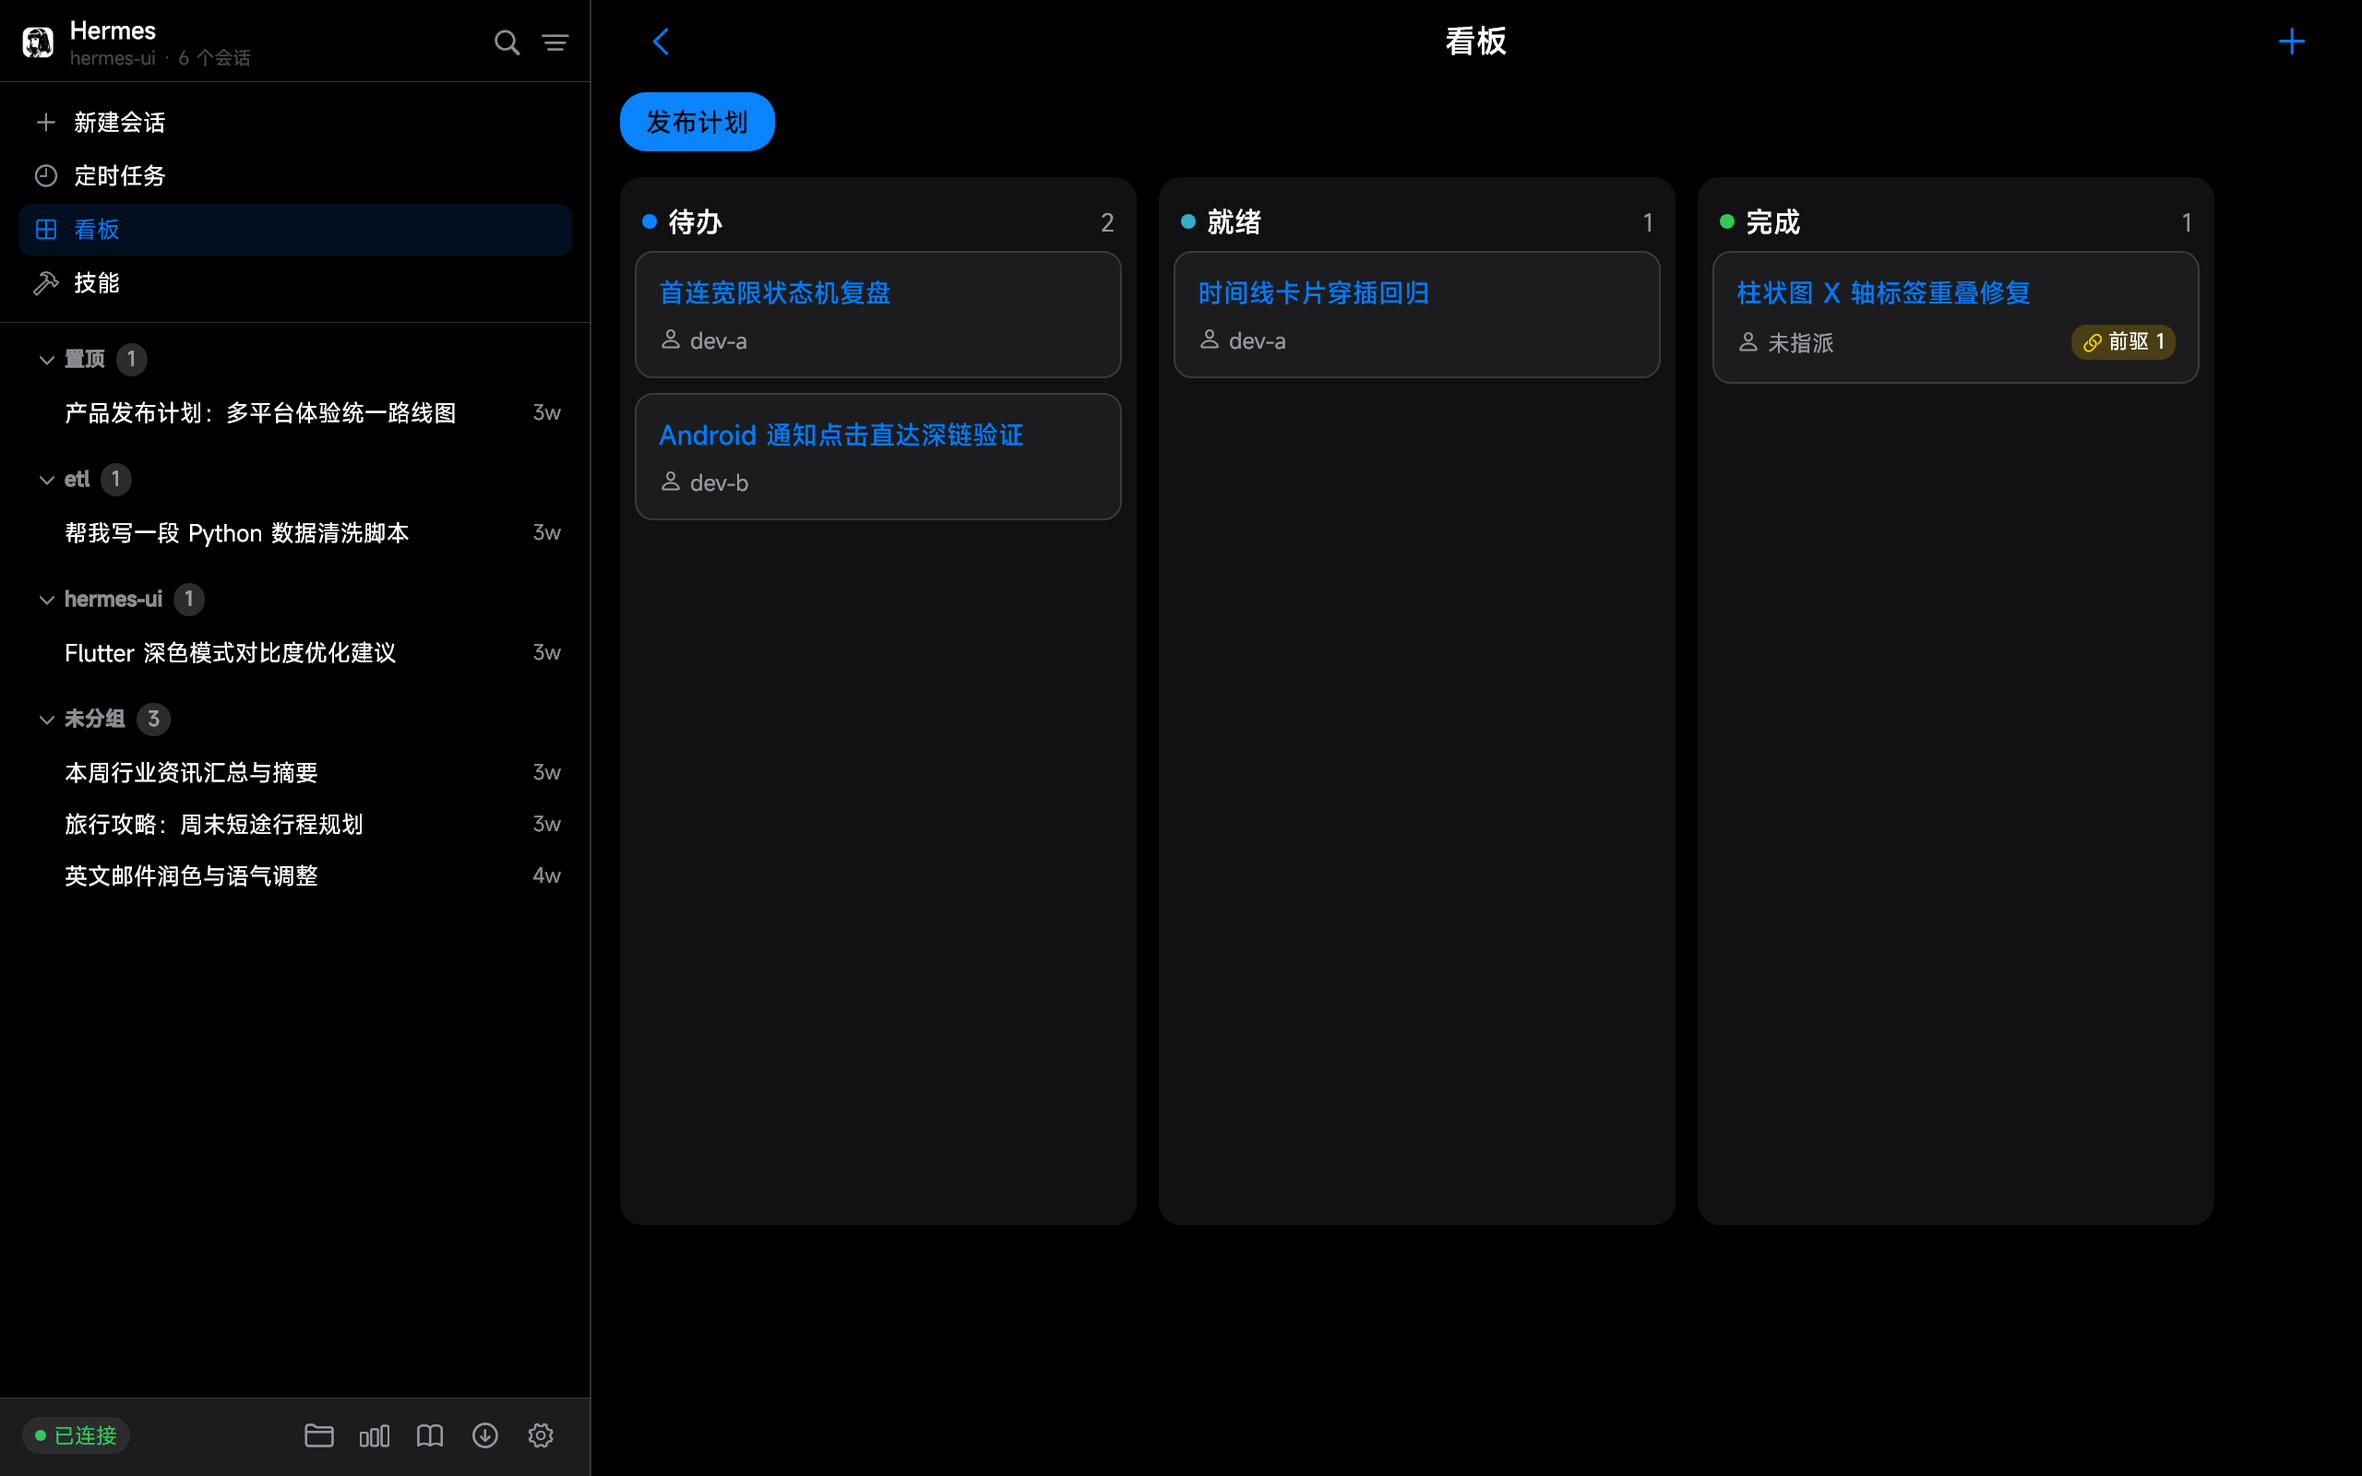
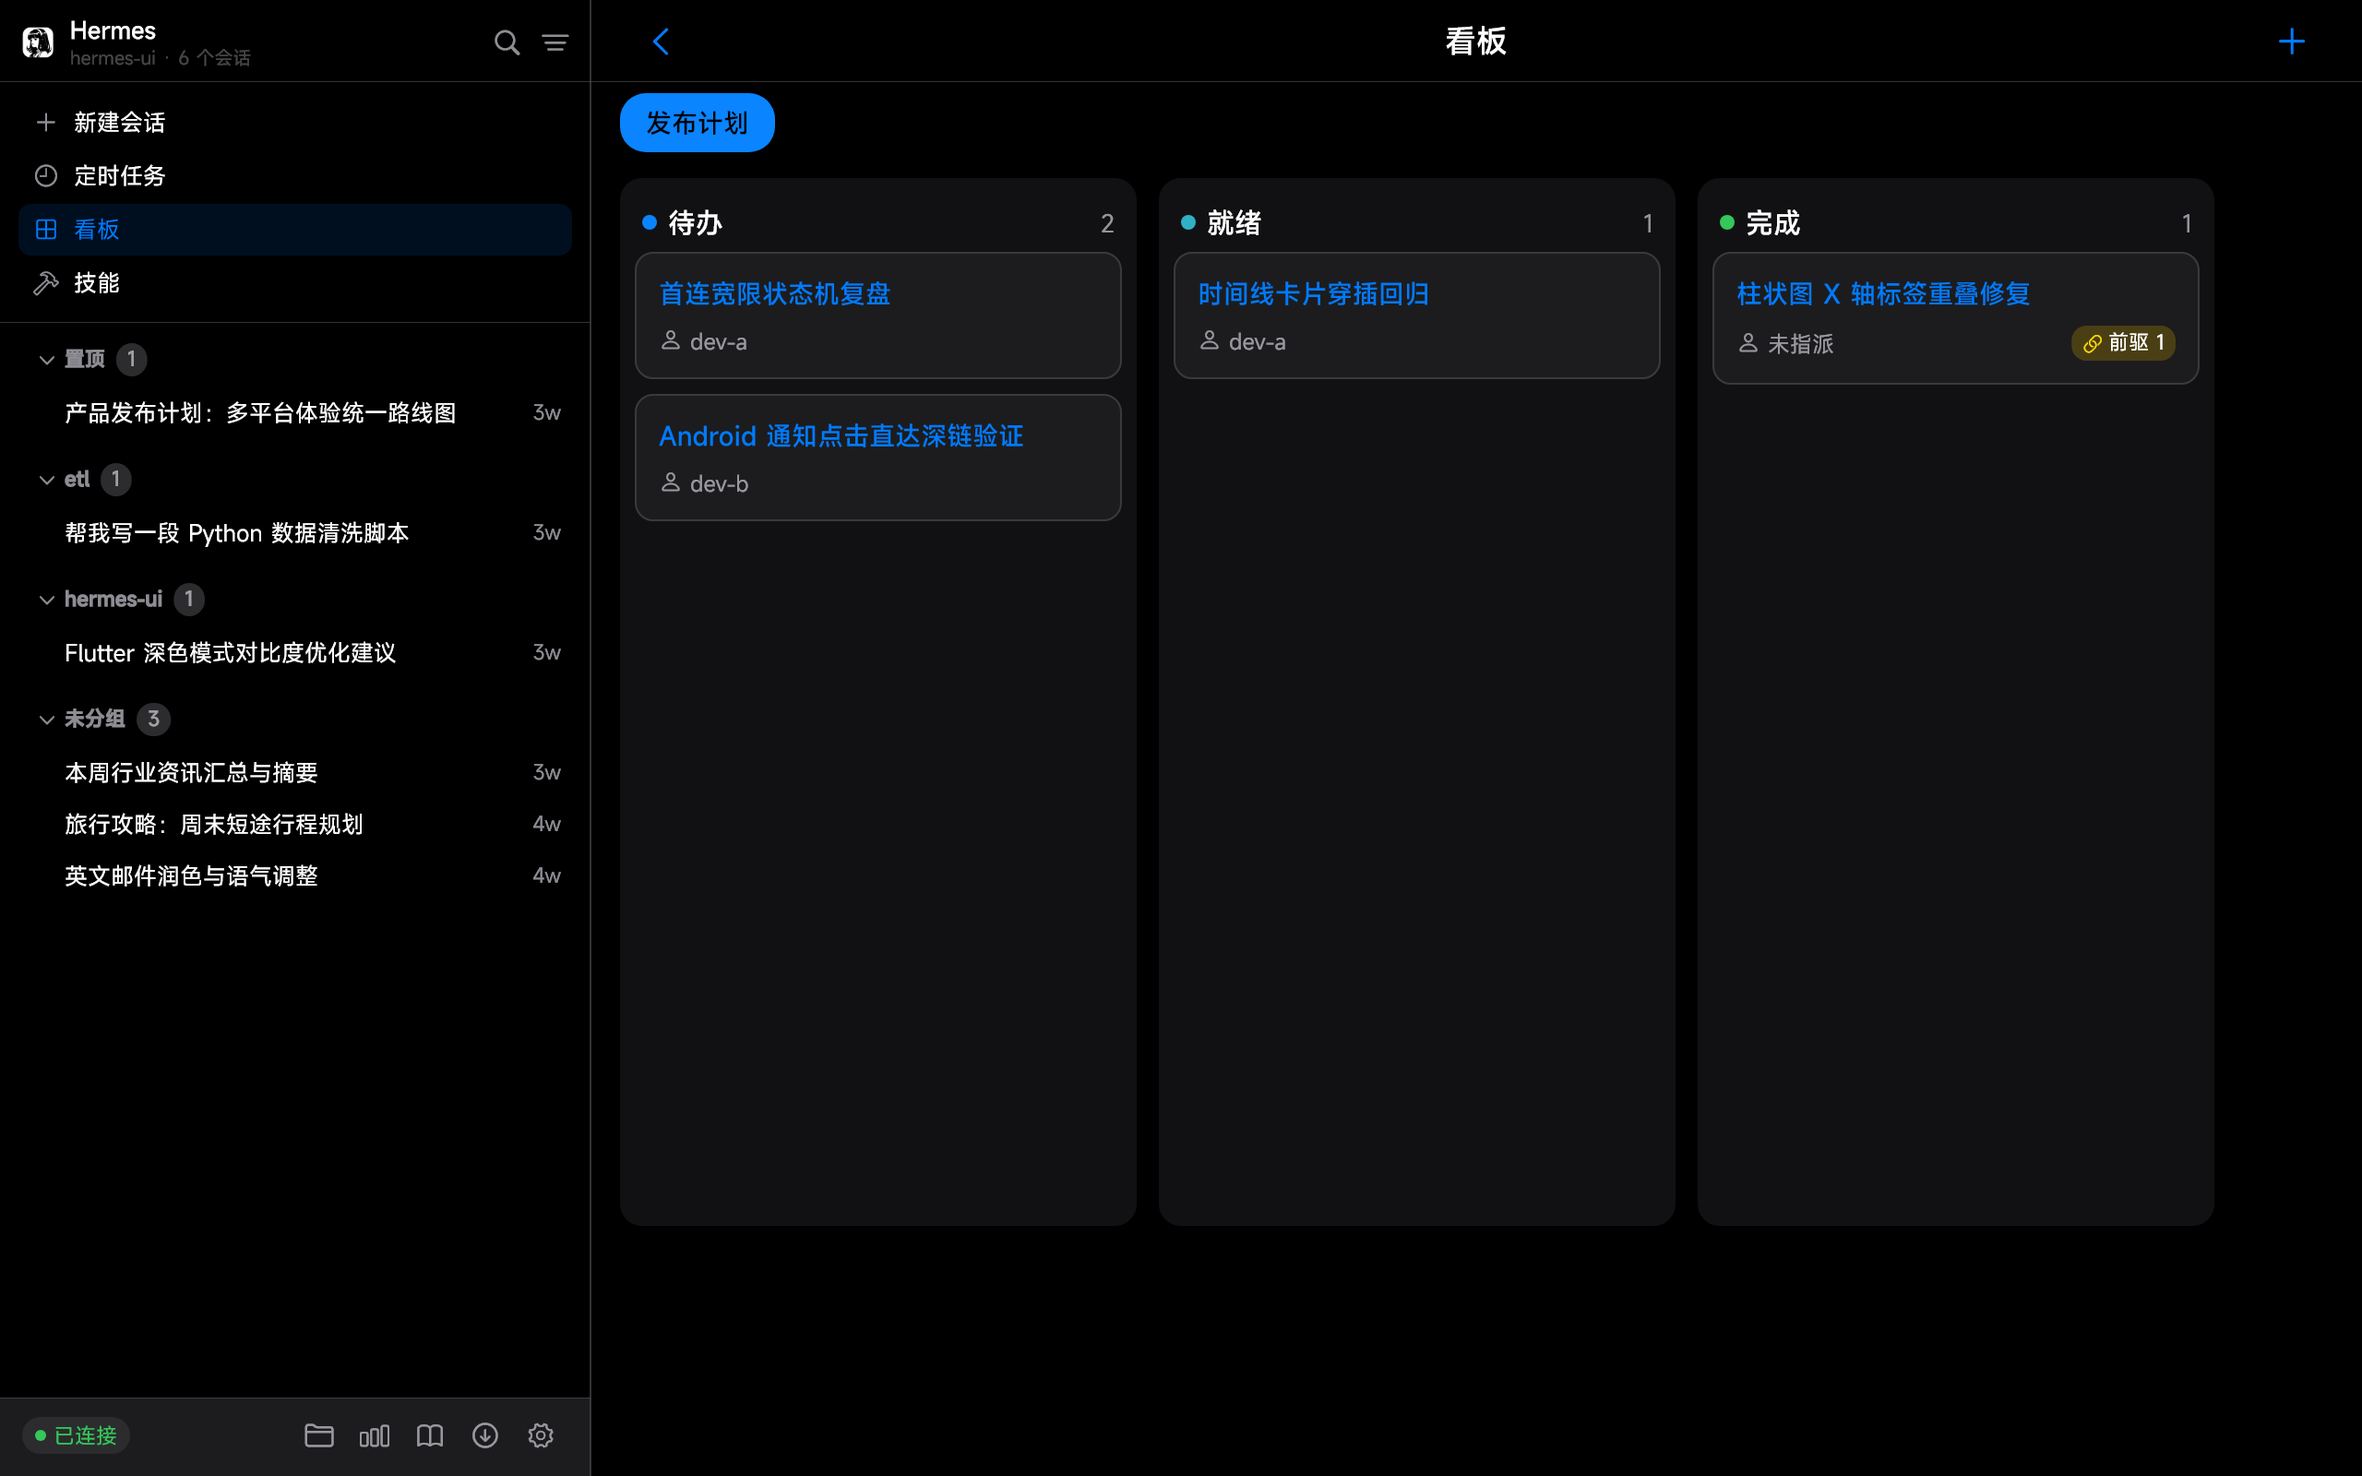
docs(readme): 刷新中英双语 README 与其截图至当前 UI
截图：中/英 × 亮/暗四套共 24 张重拍，20 张有变化 —— 线族/发丝线改动使
统计、看板页内容整体下移 1px（主线金照已重基准），聊天与会话页逐像素不变。

工装：补 activeChatSessionIdProvider 覆盖 —— hero 图此前漏了宽屏侧栏
「当前会话高亮」（真机由桌面生命周期观察者随 /chat 路由写入，本工装自建
GoRouter 不挂观察者）。顺带修正 sidebar_polish_161_test 里指错的守卫图名
（wide-sessions.png 无当前会话，守不到高亮）。

正文：亮点补附件（等高宫格/图片点击放行）、下载（队列/断点/通知）、宽屏
双栏、HiDPI 界面缩放、页面底色可调；统计口径由「近 14 天图表」改为四档
周期；`cd hermes-ui` → `hermes-keep`；安装包写实名；测试规模 4,800+ →
5,600+（实测 5641 通过 / 230 跳过）；截图说明去掉「与发布逐像素一致」的
过度声明（该套图不参与 CI 金照比对）。

diff --git a/test/screenshots/readme_shots_test.dart b/test/screenshots/readme_shots_test.dart
@@ -20,6 +20,7 @@ import 'package:hermes_ui/core/models/workspace.dart';
 import 'package:hermes_ui/core/providers/catalog_providers.dart';
 import 'package:hermes_ui/features/chat/chat_page.dart';
 import 'package:hermes_ui/features/chat/chat_providers.dart';
+import 'package:hermes_ui/features/desktop/window_title_service.dart';
 import 'package:hermes_ui/features/insights/insights_api.dart';
 import 'package:hermes_ui/features/insights/insights_page.dart';
 import 'package:hermes_ui/features/kanban/kanban_page.dart';
@@ -452,6 +453,12 @@ void main() {
       physicalSize: const Size(2560, 1600),
       overrides: [
         chatApiProvider.overrideWithValue(api),
+        // #161：宽屏侧栏「当前会话高亮」由 activeChatSessionIdProvider 驱动。
+        // 真机里这个值是桌面生命周期观察者随 /chat 路由写入的；本工装自建
+        // GoRouter、不挂观察者，故须显式喂上，否则侧栏整列与「无当前会话」
+        // 逐像素相同——hero 图会漏掉这条语义（同族工装 attach_bubble /
+        // ctx_popover 也是这么做的）。
+        activeChatSessionIdProvider.overrideWith((ref) => 's-demo-1'),
         sessionListApiFactoryProvider.overrideWithValue(
           (_) => demoSessionApi(),
         ),

diff --git a/test/app/sidebar_polish_161_test.dart b/test/app/sidebar_polish_161_test.dart
@@ -13,7 +13,9 @@ import 'package:shared_preferences/shared_preferences.dart';
 ///
 /// ①当前会话高亮 的渲染由 `_SessionRow.isCurrent` 承载（私有 widget），
 /// 本文件以「provider → 徽标/文案」的可观测契约为主；高亮的像素回归由
-/// `docs/screenshots/wide-sessions.png` 与 session_list 域用例共同守卫。
+/// `docs/screenshots/wide-chat.png`（宽屏侧栏 + 当前会话）与 session_list
+/// 域用例共同守卫 —— 注意会话列表页（`wide-sessions.png`）没有当前会话，
+/// 那张图守不到高亮。
 class _EmptyTasksController extends TasksController {
   @override
   Future<TasksState> build() async {

diff --git a/README.md b/README.md
@@ -45,7 +45,7 @@ Dark and light themes ship side by side, and each language gets its own set so t
 
 </div>
 
-> All screenshots are captured from the app's own golden-screenshot harness with demo data (`test/screenshots/`), so they match every release byte-for-byte. Both the English and [简体中文](README.zh-CN.md) sets are generated from the same harness, one run per language.
+> All screenshots come from the app's own screenshot harness with demo data (`test/screenshots/readme_shots_test.dart`), rendered inside the real app shell — not mockups. The English and [简体中文](README.zh-CN.md) sets are produced by the same harness, one run per language.
 
 ## Why this one
 
@@ -61,21 +61,25 @@ behaves the same everywhere it runs.
 - **Bundled WebUI Sidecar (Windows)** — the installer ships a self-contained WebUI backend with an embedded Python 3.11 runtime: no pre-installed Python, Git, or compilers required. One click to start & connect, Clash-Verge style.
 - **Smart interpreter reuse** — on startup the app detects an existing Hermes Agent installation and reuses its virtualenv (full agent dependencies, chat works out of the box). Without one, the bundled embedded Python still serves read-only session history.
 - **Streaming chat** — SSE streaming with Markdown + code blocks, reasoning and tool-call cards, steer and stop mid-turn, model picker, per-session drafts.
-- **Sessions** — debounced search, pin / archive / branch / delete, sectioned list (pinned / today / earlier), offline cache.
+- **Attachments** — multi-image messages lay out as one justified row each (equal height, no cropping, no gaps); other files render as compact file rows; image loading can be gated to a tap via **Settings → Auto-load Images**.
+- **Downloads** — a download queue with live progress (mirrored to a notification), resume from a partial file, and cancel.
+- **Sessions** — debounced search, pin / archive / branch / delete, sectioned list (pinned / today / earlier), offline cache, and the session you are reading highlighted in the sidebar.
 - **Tasks (cron)** — create, edit, enable/disable, trigger manually, inspect output, run-status badges.
 - **Skills & Memory** — browse and filter skills; memory panel with editing and write-back.
 - **Workspace & Git** — browse/upload/download workspace files; branch switching, status, diffs, commit, fetch / pull / push.
 - **Kanban** — boards and cards with cross-column drag & drop.
-- **Insights** — session / message / token / cost metrics, per-model breakdown, 14-day token chart.
+- **Insights** — today / 7 days / 30 days / all-time selector; session, message, token and cost metrics with a per-model breakdown and token chart.
 - **Notifications** — Android background turn-completion notifications with deep-link back to the conversation.
-- **Desktop polish** — tray icon, global hotkeys, window-state memory, launch-on-login (Windows).
+- **Wide screens** — two-pane layouts on desktop (skills, tasks, workspace, Git, diagnostics, downloads, settings) instead of one stretched column.
+- **Desktop polish** — tray icon, global hotkeys, window-state memory, launch-on-login, and 100–200% UI scaling for HiDPI displays (Windows).
+- **Appearance** — light / dark / follow system, plus an adjustable page background (six presets or your own hue and lightness).
 - **Bilingual UI** — English / 简体中文 / follow system.
 
 ## Installation
 
 ### Windows
 
-1. Grab the latest installer (`*.exe`) from the [Releases](https://github.com/silent-reader-cn/hermes-keep/releases) page and run it.
+1. Grab the latest installer `HermesUI-<version>-x64-setup.exe` from the [Releases](https://github.com/silent-reader-cn/hermes-keep/releases) page and run it.
 2. Launch **Hermes UI**. On the onboarding screen pick **Built-in service** → **Start & Connect**. That's it — the WebUI backend starts automatically.
 
 Chat requires a [Hermes Agent](https://hermes-agent.nousresearch.com/docs) installation. If none is detected, the onboarding screen shows a card linking to the install guide; without it the app still works in read-only mode (session history), and attempting to chat will tell you what's missing.
@@ -88,7 +92,7 @@ Download `app-release.apk` from the [Releases](https://github.com/silent-reader-
 
 ```bash
 git clone https://github.com/silent-reader-cn/hermes-keep.git
-cd hermes-ui
+cd hermes-keep
 flutter pub get
 
 # Windows desktop
@@ -131,7 +135,7 @@ The API contract is aligned with **[nesquena/hermes-webui](https://github.com/ne
 
 ## Project status
 
-Actively developed; 4,800+ automated tests green, `flutter analyze` clean. Releases ship a signed Windows installer (CI-built, bundling the WebUI sidecar) and an Android arm64 APK. See the [changelog](CHANGELOG.md) for details.
+Actively developed; 5,600+ automated tests green, `flutter analyze` clean. Releases ship a signed Windows installer (CI-built, bundling the WebUI sidecar) and an Android arm64 APK. See the [changelog](CHANGELOG.md) for details.
 
 ## License
 

diff --git a/README.zh-CN.md b/README.zh-CN.md
@@ -45,7 +45,7 @@
 
 </div>
 
-> 全部截图由 App 自身的 golden 截图工装生成（`test/screenshots/`，演示数据），与每次发布逐像素一致；英文版 README 用的是同一工装出的英文套件（界面语言与演示数据同为英文）。
+> 全部截图由 App 自身的截图工装生成（`test/screenshots/readme_shots_test.dart`，演示数据），渲染的是真实 App 外壳而非效果图；中英两套出自同一工装，按语言各跑一次（界面语言与演示数据同语言）。
 
 ## 为什么选它
 
@@ -58,21 +58,25 @@
 - **内置 WebUI Sidecar（Windows）** —— 安装包自带完整 WebUI 后端与嵌入式 Python 3.11 运行时：无需预装 Python、Git 或任何编译环境，一键启动并连接（Clash Verge 式体验）。
 - **智能解释器复用** —— 启动时自动检测本机已有的 Hermes Agent 安装，优先借用其虚拟环境（自带全套 Agent 依赖，开箱即可聊天）；未检测到时回退到内置嵌入式 Python，仍可浏览只读会话历史。
 - **流式聊天** —— SSE 流式渲染、Markdown + 代码块、思考与工具调用卡片、回合中途 steer / 停止、模型选择器、会话级草稿。
-- **会话管理** —— 防抖搜索、置顶 / 归档 / 分支 / 删除、分区列表（置顶 / 今天 / 更早）、离线缓存。
+- **附件** —— 多图消息按「单行等高」宫格排布（行内等高、不裁切、不留白）；其余文件按整行文件条展示；图片加载可改为「点击后才加载」（**设置 → 自动加载图片**）。
+- **下载** —— 下载队列：实时进度（同步到常驻通知）、断点续传、取消。
+- **会话管理** —— 防抖搜索、置顶 / 归档 / 分支 / 删除、分区列表（置顶 / 今天 / 更早）、离线缓存；宽屏侧栏直接高亮「当前正在看的会话」。
 - **任务（Cron）** —— 创建 / 编辑 / 启停 / 手动触发 / 查看输出，运行状态徽标。
 - **技能与记忆** —— 技能浏览与筛选；记忆面板支持编辑与写回。
 - **工作区与 Git** —— 工作区文件浏览 / 上传 / 下载；分支切换、status、diff、提交、fetch / pull / push。
 - **看板（Kanban）** —— 看板与卡片跨列长按拖拽。
-- **统计（Insights）** —— 会话 / 消息 / 令牌 / 费用指标、模型拆分、近 14 天令牌图表。
+- **统计（Insights）** —— 今天 / 近 7 天 / 近 30 天 / 全部四档周期；会话、消息、令牌与费用指标，含模型拆分与令牌图表。
 - **通知** —— Android 后台回合完成通知，点击直达对应会话。
-- **桌面体验** —— 托盘图标、全局快捷键、窗口状态记忆、开机自启（Windows）。
+- **宽屏布局** —— 桌面端多页双栏（技能 / 任务 / 工作区 / Git / 诊断 / 下载 / 设置），不再是一根拉长的单列。
+- **桌面体验** —— 托盘图标、全局快捷键、窗口状态记忆、开机自启，以及 HiDPI 界面缩放 100–200%（Windows）。
+- **外观** —— 浅色 / 深色 / 跟随系统；页面底色可调（六档预设或自定义色相与明度）。
 - **多语言** —— English / 简体中文 / 跟随系统。
 
 ## 安装
 
 ### Windows
 
-1. 从 [Releases](https://github.com/silent-reader-cn/hermes-keep/releases) 页面下载最新安装包（`*.exe`）并运行。
+1. 从 [Releases](https://github.com/silent-reader-cn/hermes-keep/releases) 页面下载最新安装包 `HermesUI-<版本号>-x64-setup.exe` 并运行。
 2. 启动 **Hermes UI**，在引导页选择 **内置服务** → **启动并连接**，完成——WebUI 后端自动拉起。
 
 聊天功能需要本机安装 [Hermes Agent](https://hermes-agent.nousresearch.com/docs)。未检测到时引导页会出现提示卡并附安装指南链接；此时 App 仍可用（会话历史只读），尝试聊天会明确提示缺少的内容。
@@ -85,7 +89,7 @@
 
 ```bash
 git clone https://github.com/silent-reader-cn/hermes-keep.git
-cd hermes-ui
+cd hermes-keep
 flutter pub get
 
 # Windows 桌面
@@ -128,7 +132,7 @@ API 契约对齐 **[nesquena/hermes-webui](https://github.com/nesquena/hermes-we
 
 ## 项目状态
 
-活跃开发中：4,800+ 自动化测试全绿、`flutter analyze` 零告警。发布产物为 CI 构建的 Windows 安装包（内置 WebUI sidecar）与 Android arm64 APK。变更详情见 [更新日志](CHANGELOG.md)。
+活跃开发中：5,600+ 自动化测试全绿、`flutter analyze` 零告警。发布产物为 CI 构建的 Windows 安装包（内置 WebUI sidecar）与 Android arm64 APK。变更详情见 [更新日志](CHANGELOG.md)。
 
 ## 开源协议
 
